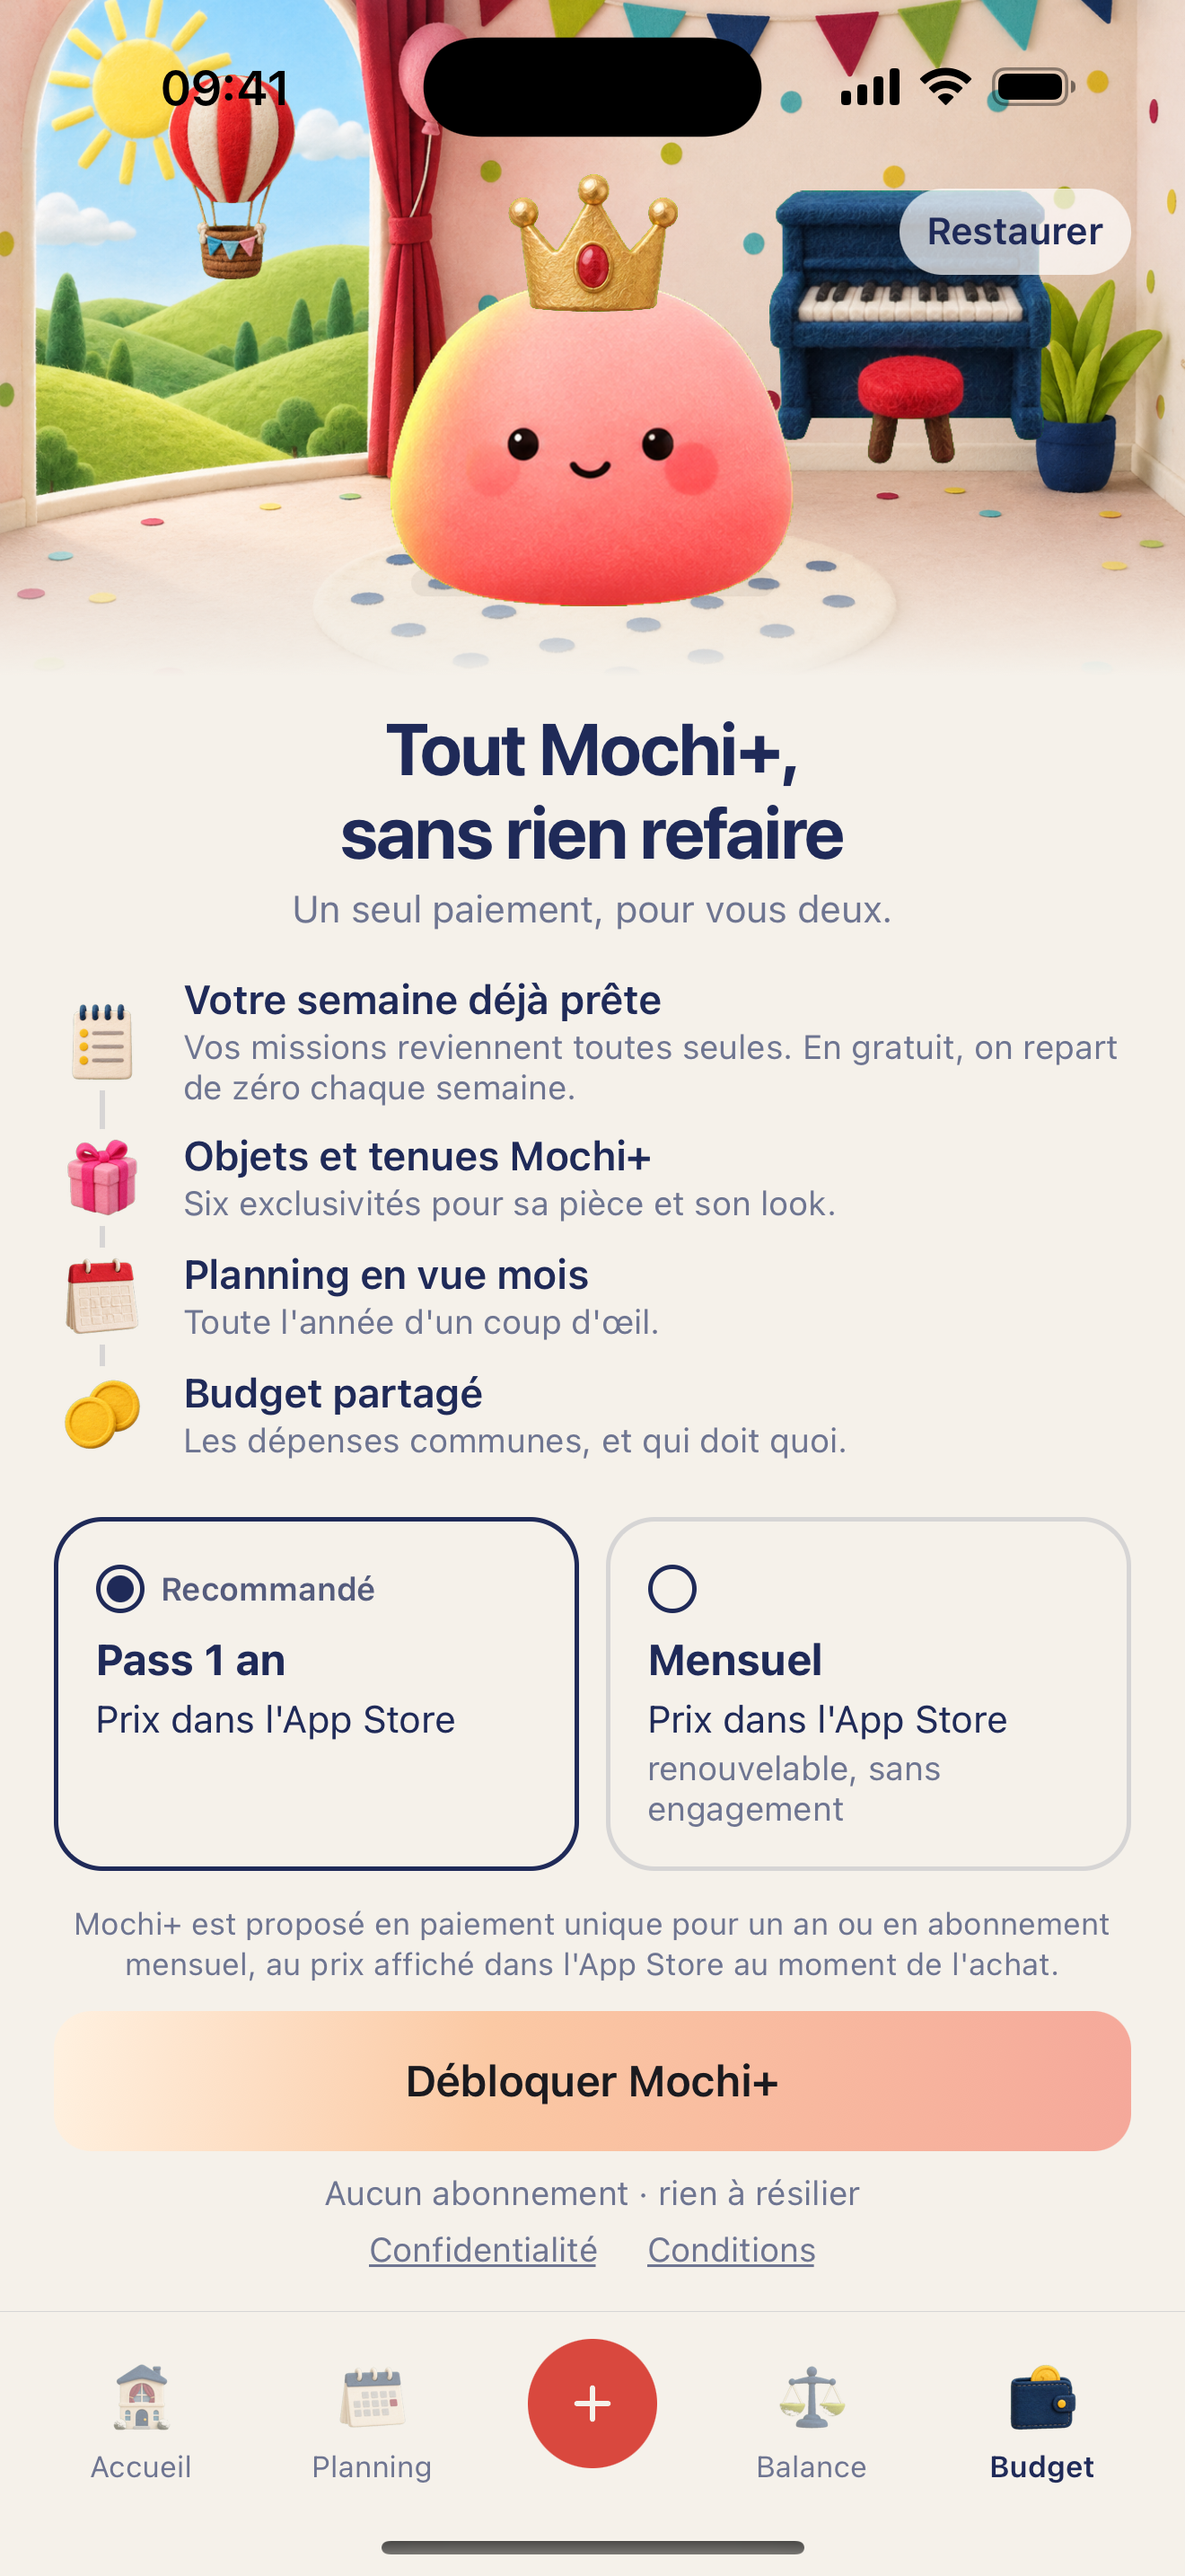
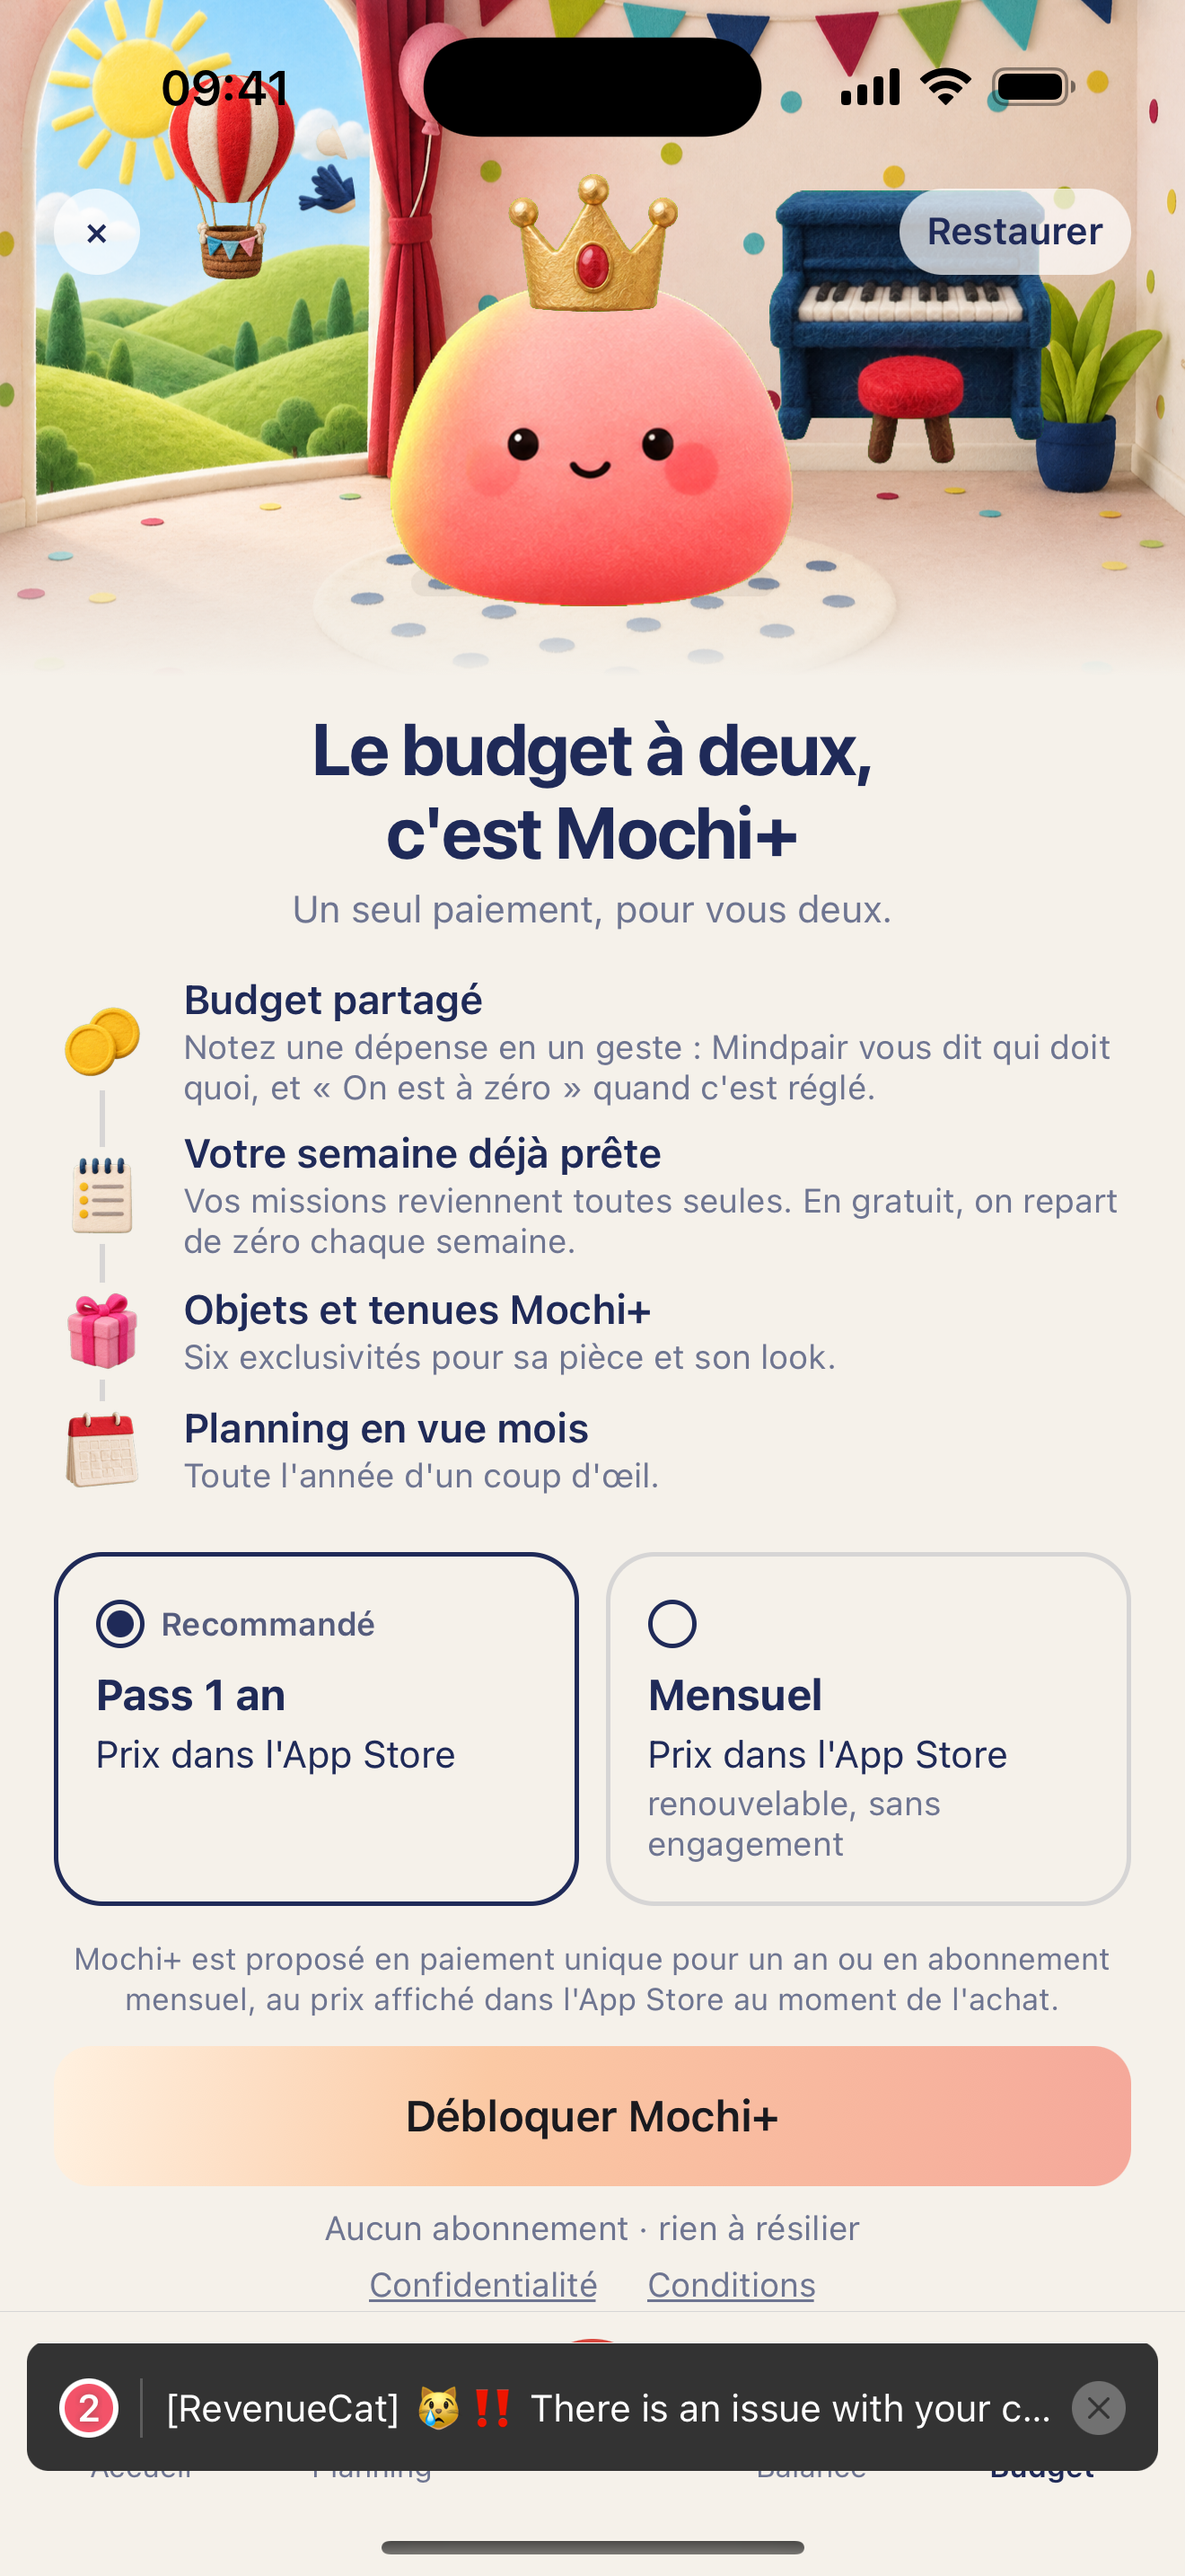
Paywall : croix dans l'onglet, version adaptée au Budget et à la vue mois

diff --git a/app/paywall.js b/app/paywall.js
@@ -6,7 +6,7 @@
 // (jamais un chiffre inventé en réel), Restaurer · Confidentialité · Conditions.
 // `?next=` : paywall doux après la création du foyer. Dev seulement : `?demo=1` prix d'exemple, `?v=A|B|C` mise en page.
 import React, { useState, useEffect } from 'react';
-import { router, useLocalSearchParams } from 'expo-router';
+import { router, useLocalSearchParams, useNavigation } from 'expo-router';
 import { View, Linking } from 'react-native';
 import { useSafeAreaInsets } from 'react-native-safe-area-context';
 import * as Haptics from 'expo-haptics';
@@ -22,11 +22,12 @@ const DEMO_OFFERS = [{ id: 'pass', priceString: '49,99 €', price: 49.99, curre
 const money = (v, cur) => { try { return new Intl.NumberFormat('fr-FR', { style: 'currency', currency: cur }).format(v); } catch (e) { return null; } };
 const LAYOUT = 'A'; // mise en page retenue (à fixer quand Jeanne aura choisi)
 
-export default function Paywall() { return <PaywallView />; }
+export default function Paywall() { const { from } = useLocalSearchParams(); return <PaywallView context={from ? String(from) : null} />; }
 
-// embedded : affiché dans un onglet (Budget sans Mochi+, Jeanne 11 nov 2026) — pas de croix, place pour la barre d'onglets
-export function PaywallView({ embedded = false }) {
+// embedded : affiché dans un onglet (Budget sans Mochi+, Jeanne 11 nov 2026) — croix vers l'Accueil (Jeanne : « il faut toujours une croix »), place pour la barre d'onglets
+export function PaywallView({ embedded = false, context = null }) {
   const insets = useSafeAreaInsets();
+  const navigation = useNavigation();
   const { next, demo, v } = useLocalSearchParams();
   const V = __DEV__ && v ? String(v) : LAYOUT;
   const [offers, setOffers] = useState(null);
@@ -40,7 +41,7 @@ export function PaywallView({ embedded = false }) {
   const current = plan === 'pass' ? pass : monthly;
   const saving = pass?.price && monthly?.price ? Math.round((1 - pass.price / (12 * monthly.price)) * 100) : 0;
   const perMonth = pass?.price ? money(pass.price / 12, pass.currencyCode) : null;
-  const leave = () => { if (embedded) return; if (next) router.replace(String(next)); else router.back(); };
+  const leave = () => { if (embedded) { navigation.navigate('index'); return; } if (next) router.replace(String(next)); else router.back(); }; // dans un onglet, la croix ramène à l'Accueil
   const onBuy = async () => {
     if (__DEV__ && demo) return;
     setBusy(true); setMsg(null);
@@ -66,6 +67,9 @@ export function PaywallView({ embedded = false }) {
     monthPrice: monthly ? fill(t.monthPrice, { price: monthly.priceString }) : t.priceUnavailable,
     disclosure: !current ? t.disclosureNoPrice : plan === 'pass' ? fill(t.disclosurePass, { price: current.priceString }) : fill(t.disclosureMonth, { price: current.priceString }),
     ctaLabel: busy ? t.buying : t.cta,
+    // d'où l'on vient (Jeanne, 11 nov 2026) : le titre et le premier avantage parlent de ce qu'on a ouvert
+    headline: (t.context[context] || {}).headline || t.headline,
+    benefits: t.context[context] ? [t.context[context].first, ...t.benefits.filter(b => b.icon !== t.context[context].drop)] : t.benefits,
     under: plan === 'pass' ? t.underPass : t.underMonth,
   };
   const L = V === 'B' ? LayoutB : V === 'C' ? LayoutC : LayoutA;

diff --git a/src/components/premium/paywall-layouts.js b/src/components/premium/paywall-layouts.js
@@ -68,7 +68,7 @@ function Footer({ d, ink = INK, muted = '#6E7591' }) {
 function TopBar({ d, color = INK, bg = 'rgba(255,255,255,0.7)' }) {
   return (
     <View style={{ position: 'absolute', top: d.insets.top + 8, left: 20, right: 20, flexDirection: 'row', justifyContent: 'space-between', zIndex: 5 }}>
-      {d.embedded ? <View /> : <Pressable onPress={d.leave} hitSlop={12} style={[s.chip, { backgroundColor: bg }]}><Text style={{ fontSize: 14, fontWeight: '600', color }}>{d.next ? t.soft : '×'}</Text></Pressable>}
+      <Pressable onPress={d.leave} hitSlop={12} accessibilityLabel={t.close} style={[s.chip, { backgroundColor: bg }]}><Text style={{ fontSize: 14, fontWeight: '600', color }}>{d.next ? t.soft : '×'}</Text></Pressable>
       <Pressable onPress={d.onRestore} hitSlop={12} style={[s.chip, { backgroundColor: bg }]}><Text style={{ fontSize: 14, fontWeight: '600', color }}>{t.restore}</Text></Pressable>
     </View>
   );
@@ -86,11 +86,11 @@ export function LayoutA({ d }) {
         <TopBar d={d} />
       </View>
       <View style={{ paddingHorizontal: 20, paddingTop: 12 }}>
-        <Text style={{ fontSize: 27, lineHeight: 31, fontWeight: '700', letterSpacing: -0.8, color: T.ink, textAlign: 'center' }}>{t.headline}</Text>
+        <Text style={{ fontSize: 27, lineHeight: 31, fontWeight: '700', letterSpacing: -0.8, color: T.ink, textAlign: 'center' }}>{d.headline || t.headline}</Text>
         <Text style={{ fontSize: 14, color: T.muted, textAlign: 'center', marginTop: 4 }}>{t.subheadline}</Text>
         <View style={{ marginTop: 12 }}>
           <View style={{ position: 'absolute', left: 17, top: 20, bottom: 20, width: 2, backgroundColor: T.line }} />
-          {t.benefits.map(b => (
+          {(d.benefits || t.benefits).map(b => (
             <View key={b.t} style={{ flexDirection: 'row', alignItems: 'center', gap: 12, paddingVertical: 4 }}>
               <View style={{ width: 36, height: 36, borderRadius: 18, backgroundColor: T.bg, alignItems: 'center', justifyContent: 'center' }}><Image source={ICONS[b.icon]} style={{ width: 30, height: 30 }} /></View>
               <View style={{ flex: 1 }}><Text style={{ fontSize: 15, fontWeight: '600', color: T.ink }}>{b.t}</Text><Text style={{ fontSize: 12.5, color: T.muted, marginTop: 1 }}>{b.s}</Text></View>

diff --git a/app/(tabs)/planning.js b/app/(tabs)/planning.js
@@ -306,7 +306,7 @@ export default function Planning() {
   const W = useWindowDimensions().width;
   const slide = useSharedValue(view === 'month' ? 1 : 0); // 0 = semaine, 1 = mois
   // décision Jeanne 7 sept 2026 : la vue Mois est Duo+ (le gratuit = 7 jours glissants)
-  const onSegment = v => { if (v === 'month' && !isPremium()) { router.push('/paywall'); return; } setMode(v); slide.value = withTiming(v === 'month' ? 1 : 0, { duration: 320, easing: Easing.inOut(Easing.cubic) }); };
+  const onSegment = v => { if (v === 'month' && !isPremium()) { router.push('/paywall?from=mois'); return; } setMode(v); slide.value = withTiming(v === 'month' ? 1 : 0, { duration: 320, easing: Easing.inOut(Easing.cubic) }); };
   useEffect(() => { if (view === 'month' && mode !== 'month') onSegment('month'); }, [view]); // lien reçu alors que l'onglet est déjà monté
   const weekStyle = useAnimatedStyle(() => ({ transform: [{ translateX: -slide.value * W }] }));
   const monthStyle = useAnimatedStyle(() => ({ transform: [{ translateX: (1 - slide.value) * W }] }));

diff --git a/src/components/FabSheet.js b/src/components/FabSheet.js
@@ -69,7 +69,7 @@ export default function FabSheet({ open, onClose }) {
         {ENTRIES.map((e, i) => (
           <View key={e.k}>
             {i ? <Divider /> : null}
-            <Pressable onPress={() => go(e.plus && !isPremium() ? '/paywall' : e.route)} style={({ pressed }) => [s.row, { opacity: pressed ? 0.7 : 1 }]}>
+            <Pressable onPress={() => go(e.plus && !isPremium() ? '/paywall?from=budget' : e.route)} style={({ pressed }) => [s.row, { opacity: pressed ? 0.7 : 1 }]}>
               <View style={[s.bullet, { backgroundColor: alpha(e.tint, 0.16) }]}><Icon d={e.icon} size={20} color={e.deep} /></View>
               <View style={{ flex: 1 }}>
                 <Text style={[font.body, { color: tk().ink }, { color: tk().ink }]}>{t[e.k]}</Text>

diff --git a/app/depense.js b/app/depense.js
@@ -32,7 +32,7 @@ const EXPENSE_EMOJIS = ['💶', '🛒', '🍽', '🏠', '🧸', '💊', '🚗
 const fmtDate = iso => new Intl.DateTimeFormat('fr-FR', { weekday: 'short', day: 'numeric', month: 'short' }).format(new Date(iso + 'T12:00:00'));
 
 // Budget = Mochi+ partout (Jeanne, 11 nov 2026) : sans Mochi+, la saisie renvoie au paywall (garde hors des hooks)
-export default function Depense() { return isPremiumGate() ? <DepenseScreen /> : <Redirect href="/paywall" />; }
+export default function Depense() { return isPremiumGate() ? <DepenseScreen /> : <Redirect href="/paywall?from=budget" />; }
 function DepenseScreen() {
   const { id, demo } = useLocalSearchParams(); // demo=1 : dépense factice (captures)
   const insets = useSafeAreaInsets();

diff --git a/app/(tabs)/budget.js b/app/(tabs)/budget.js
@@ -122,7 +122,7 @@ export default function Budget() {
   };
   const now = real ? real.now : today;
   // sans Mochi+ : l'onglet montre directement le paywall validé (Jeanne, 11 nov 2026)
-  if (!BUDGET_FREE && !isPremium()) return <PaywallView embedded />;
+  if (!BUDGET_FREE && !isPremium()) return <PaywallView embedded context="budget" />;
   const Btn = ({ label, dark, onPress }) => <Pressable onPress={onPress} style={{ paddingVertical: 10, paddingHorizontal: 18, borderRadius: 999, borderWidth: 1.5, borderColor: T.ink, backgroundColor: dark ? T.ink : 'transparent' }}><Text style={[type.label, { color: dark ? T.bg : T.ink, fontWeight: '600' }]}>{label}</Text></Pressable>;
   return (
     <View style={{ flex: 1, backgroundColor: T.bg }}>

diff --git a/TODO.md b/TODO.md
@@ -469,3 +469,5 @@ Décisions Jeanne (tableau de bord, 4 nov 2026) : coucher du foyer 22 h (migrati
 11 nov 2026 — **Budget payant partout** (Jeanne) : en gratuit, « Une dépense » du « + » porte un badge Mochi+ et ouvre le paywall ; `app/depense.js` renvoie au paywall sans Mochi+ (garde hors des hooks) ; écran Budget verrouillé refait (aperçu estompé, promesse, picto pièces, bouton pleine largeur). Vu au simulateur : badge, paywall ouvert depuis le +. Au simulateur, RevenueCat affiche un avertissement de configuration (pas de produits StoreKit en local) : à vérifier sur TestFlight.
 
 11 nov 2026 — Budget sans Mochi+ = le paywall validé (A) directement dans l'onglet (`PaywallView embedded` : pas de croix, place pour la barre d'onglets). Vu au simulateur.
+
+11 nov 2026 — Paywall : croix partout (dans l'onglet Budget, elle ramène à l'Accueil) ; version adaptée selon l'origine (`?from=budget|mois`, `context`) : titre et premier avantage parlent de ce qu'on a ouvert. Vu au simulateur : croix → Accueil, Budget, vue mois.
